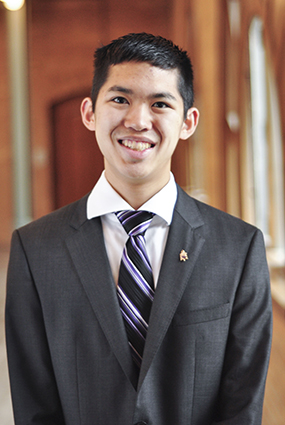
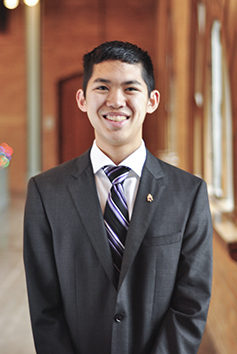
trying new code for react-router workaround on 404 github errors, changes to brother information on profiles, improvements to usability

diff --git a/src/components/Brothers/brotherhood_constants.js b/src/components/Brothers/brotherhood_constants.js
@@ -181,7 +181,7 @@ const brotherInfo = {
     position: 'Director of Scholarship',
     year: 'Sophomore',
     hometown: 'Los Angeles, CA',
-    class: 'Kappa',
+    class: 'Iota',
     major: 'Intended Business & Economics',
     minor: '',
     career_interests: 'Investment Banking & Consulting',
@@ -374,7 +374,7 @@ const brotherInfo = {
     career_interests: 'Investment Banking & Consulting',
     previous_positions: '',
     bio:
-      "Justin's biggest lesson from PSE is that communication is the key to holding a group together. His role model is his father. Justin enjoys traveling around the world, meeting new people and hearing their stories, and playing sports. He is one of Berkeley's three MicMan and an active member in Cal Rotaract.",
+      "Justin's biggest lesson from PSE is that communication is the key to holding a group together. In PSE, he's found a family that will motivate him and push him to do his best. Justin's role model is his father. He enjoys traveling around the world, meeting new people and hearing their stories, and playing sports such as soccer and volleyball. He is one of Berkeley's three MicMen and an active member in Cal Rotaract.",
     linkedin: 'https://linkedin.com/in/justintan14'
   },
 
@@ -523,10 +523,10 @@ const brotherInfo = {
     class: 'Iota',
     major: 'Business Administration',
     minor: '',
-    career_interests: 'Digital Marketing & Brand Marketing',
+    career_interests: 'Content & Digital Marketing',
     previous_positions: '',
     bio:
-      'PSE has allowed Melody to improve on her leadership, teamwork, and communication skills, and helped her get over her fear of case competitions. Her role models are her parents and God. Melody is also involved in Livingwater Artist Collective, Business Careers in Entertainment, EthiCAL Apparel, and the dance team AFX. She enjoys acting, cooking, and playwriting in her free time.',
+      'PSE has allowed Melody to improve on her leadership, teamwork, and communication skills, and helped her get over her fear of case competitions. She is involved in the Livingwater Passion Fellowship and Business Careers in Entertainment Club. Melody enjoys acting, cooking, dancing, and playwriting in her free time.',
     linkedin: 'https://linkedin.com/in/wanmelody'
   },
 
@@ -757,9 +757,9 @@ const brotherInfo = {
     year: 'Junior',
     hometown: 'Fremont, CA',
     class: 'Iota',
-    major: 'Economics & Media Studies',
-    minor: 'Technology & Entrepreneurship Certificate',
-    career_interests: 'Digital Marketing',
+    major: 'Media Studies',
+    minor: 'Political Economy',
+    career_interests: 'Marketing, Business Development, & Brand Strategy',
     previous_positions: 'Director of External Recruitment',
     bio:
       'PSE has taught Yixuan the importance of having an excellent personal brand. It has shaped her into a more confident, knowledgeable, and professional individual through coffee chats, case competitions, and various Chapter events. PSE has introduced her to many motivated and successful individuals that she feel beyond blessed to be a part of the diverse community at Cal. Her role model is her grandmother. Yixuan was awarded 2nd place in the 2016 PwC case competition, and is also an active member of Berkeley Women in Business. She loves blogging, watercoloring, and going on road trips.',

diff --git a/public/404.html b/public/404.html
@@ -1,0 +1,38 @@
+<!DOCTYPE html>
+<html>
+  <head>
+    <meta charset="utf-8">
+    <title>Single Page Apps for GitHub Pages</title>
+    <script type="text/javascript">
+      // Single Page Apps for GitHub Pages
+      // https://github.com/rafrex/spa-github-pages
+      // Copyright (c) 2016 Rafael Pedicini, licensed under the MIT License
+      // ----------------------------------------------------------------------
+      // This script takes the current url and converts the path and query
+      // string into just a query string, and then redirects the browser
+      // to the new url with only a query string and hash fragment,
+      // e.g. http://www.foo.tld/one/two?a=b&c=d#qwe, becomes
+      // http://www.foo.tld/?p=/one/two&q=a=b~and~c=d#qwe
+      // Note: this 404.html file must be at least 512 bytes for it to work
+      // with Internet Explorer (it is currently > 512 bytes)
+      // If you're creating a Project Pages site and NOT using a custom domain,
+      // then set segmentCount to 1 (enterprise users may need to set it to > 1).
+      // This way the code will only replace the route part of the path, and not
+      // the real directory in which the app resides, for example:
+      // https://username.github.io/repo-name/one/two?a=b&c=d#qwe becomes
+      // https://username.github.io/repo-name/?p=/one/two&q=a=b~and~c=d#qwe
+      // Otherwise, leave segmentCount as 0.
+      var segmentCount = 0;
+      var l = window.location;
+      l.replace(
+        l.protocol + '//' + l.hostname + (l.port ? ':' + l.port : '') +
+        l.pathname.split('/').slice(0, 1 + segmentCount).join('/') + '/?p=/' +
+        l.pathname.slice(1).split('/').slice(segmentCount).join('/').replace(/&/g, '~and~') +
+        (l.search ? '&q=' + l.search.slice(1).replace(/&/g, '~and~') : '') +
+        l.hash
+      );
+    </script>
+  </head>
+  <body>
+  </body>
+</html>

diff --git a/public/index.html b/public/index.html
@@ -22,6 +22,37 @@
       You need to enable JavaScript to run this app.
     </noscript>
 
+    <!-- Start Single Page Apps for GitHub Pages -->
+    <script type="text/javascript">
+      // Single Page Apps for GitHub Pages
+      // https://github.com/rafrex/spa-github-pages
+      // Copyright (c) 2016 Rafael Pedicini, licensed under the MIT License
+      // ----------------------------------------------------------------------
+      // This script checks to see if a redirect is present in the query string
+      // and converts it back into the correct url and adds it to the
+      // browser's history using window.history.replaceState(...),
+      // which won't cause the browser to attempt to load the new url.
+      // When the single page app is loaded further down in this file,
+      // the correct url will be waiting in the browser's history for
+      // the single page app to route accordingly.
+      (function(l) {
+        if (l.search) {
+          var q = {};
+          l.search.slice(1).split('&').forEach(function(v) {
+            var a = v.split('=');
+            q[a[0]] = a.slice(1).join('=').replace(/~and~/g, '&');
+          });
+          if (q.p !== undefined) {
+            window.history.replaceState(null, null,
+              l.pathname.slice(0, -1) + (q.p || '') +
+              (q.q ? ('?' + q.q) : '') +
+              l.hash
+            );
+          }
+        }
+      }(window.location))
+    </script>
+    
     <!-- Font Awesome -->
     <script src="https://use.fontawesome.com/db12232d8c.js"></script>
 

diff --git a/src/components/reusable_components/AccordionItem.jsx b/src/components/reusable_components/AccordionItem.jsx
@@ -8,22 +8,29 @@ import { StyleSheet, css } from 'aphrodite';
 import { animations } from '../../stylesheets/Animations.js';
 
 export default class AccordionItem extends React.Component {
+  constructor(props) {
+    super(props);
+    this.state = {
+      isOpen: false
+    };
+  }
+
   render() {
-    let { isActive, setActiveIndex, index } = this.props;
+    let { isOpen } = this.state;
 
     return (
       <div className={css(styles.accordionItem)}>
         <div
           className={css(
             styles.headerContainer,
-            isActive ? styles.openHC : styles.closedHC
+            isOpen ? styles.openHC : styles.closedHC
           )}
-          onClick={() => setActiveIndex(index)}
+          onClick={() => this.setState({ isOpen: !isOpen })}
         >
           <h1 className={css(styles.header)}>
             {this.props.question}
           </h1>
-          {isActive
+          {isOpen
             ? <i
                 className={css(styles.chevron) + ' fa fa-chevron-up'}
                 aria-hidden="true"
@@ -36,7 +43,7 @@ export default class AccordionItem extends React.Component {
         <div
           className={css(
             styles.bodyContainer,
-            isActive ? animations.fadeInFast : styles.hidden
+            isOpen ? animations.fadeInFast : styles.hidden
           )}
         >
           <p className={css(styles.answer)}>

diff --git a/src/components/Recruitment/WhyPSE.jsx b/src/components/Recruitment/WhyPSE.jsx
@@ -124,7 +124,7 @@ export default class WhyPSE extends React.Component {
                 <img
                   src={'/images/rahul.jpg'}
                   className={css(styles.image)}
-                  alt=""
+                  alt="Rahul Rangnekar"
                 />
               </div>
             </div>
@@ -148,7 +148,10 @@ const styles = StyleSheet.create({
   },
 
   section: {
-    padding: '40px 30px'
+    padding: '40px 15px',
+    '@media (min-width: 768px)': {
+      padding: '40px 30px'
+    }
   },
 
   darkBackground: {
@@ -167,7 +170,8 @@ const styles = StyleSheet.create({
     margin: 'auto',
     textAlign: 'left',
     '@media (max-width: 1200px)': {
-      flexDirection: 'column'
+      flexDirection: 'column',
+      textAlign: 'center'
     }
   },
 
@@ -175,7 +179,10 @@ const styles = StyleSheet.create({
     fontFamily: 'Open Sans, sans-serif',
     fontSize: '1.25em',
     fontWeight: '500',
-    padding: '0 10px'
+    padding: '0 5px',
+    '@media(min-width: 768px)': {
+      padding: '0 20px'
+    }
   },
 
   darkDescription: {

diff --git a/src/components/Recruitment/FAQs.jsx b/src/components/Recruitment/FAQs.jsx
@@ -10,21 +10,6 @@ import { faq_constants } from './faq_constants.js';
 import AccordionItem from '../reusable_components/AccordionItem.jsx';
 
 export default class FAQs extends React.Component {
-  constructor(props) {
-    super(props);
-    this.state = {
-      activeIndex: -1
-    };
-  }
-
-  setActiveIndex = newIndex => {
-    if (this.state.activeIndex === newIndex) {
-      this.setState({ activeIndex: -1 });
-    } else {
-      this.setState({ activeIndex: newIndex });
-    }
-  };
-
   render() {
     document.title = 'FAQs - Pi Sigma Epsilon | Zeta Chi Chapter';
 
@@ -34,10 +19,8 @@ export default class FAQs extends React.Component {
           <AccordionItem
             key={index}
             index={index}
-            isActive={this.state.activeIndex === index}
             question={item.question}
             answer={item.answer}
-            setActiveIndex={this.setActiveIndex}
           />
         );
       } else {

diff --git a/src/components/Recruitment/faq_constants.js b/src/components/Recruitment/faq_constants.js
@@ -20,7 +20,7 @@ export const faq_constants = [
   {
     question: 'Is there a GPA minimum?',
     answer:
-      'We have a soft GPA minimum of 3.0, but exceptions can and have been made. If your GPA is below a 3.0 and we offer you a prospective member spot, we expect you to improve upon your grades.'
+      'We have a GPA minimum of 3.0.. Applicants with a sub-3.0 GPA are still welcome to apply, but are expected to have an outstanding resume or potential.'
   },
   {
     question: 'Is there an age/year ceiling?',

diff --git a/src/components/Navbar/HamburgerMenu.jsx b/src/components/Navbar/HamburgerMenu.jsx
@@ -151,7 +151,7 @@ const menuStyles = {
 
   bmMenu: {
     background: '#303030',
-    padding: '2.5em 2em 0',
+    padding: '1.75em 2em 0',
     fontSize: '1em',
     color: '#FFF',
     width: `${MENU_WIDTH}px`,
@@ -159,7 +159,7 @@ const menuStyles = {
   },
 
   bmItemList: {
-    padding: '0.8em'
+    padding: '0.2em 0.8em'
   },
 
   bmOverlay: {

diff --git a/src/components/Brothers/Brother.jsx b/src/components/Brothers/Brother.jsx
@@ -179,8 +179,14 @@ const styles = StyleSheet.create({
 
   image: {
     border: '3px solid #895FAD',
-    height: '600px',
-    width: '402px'
+    '@media (min-width: 325px)': {
+      width: '325px',
+      height: '485px'
+    },
+    '@media (min-width: 425px)': {
+      width: '402px',
+      height: '600px'
+    }
   },
 
   broBio: {

diff --git a/src/components/About/About.jsx b/src/components/About/About.jsx
@@ -164,7 +164,12 @@ const styles = StyleSheet.create({
     fontFamily: 'Open Sans, sans-serif',
     fontSize: '1.25em',
     fontWeight: '500',
-    padding: '0 20px'
+    padding: '0 5px',
+    textAlign: 'center',
+    '@media (min-width: 768px)': {
+      padding: '0 20px',
+      textAlign: 'left'
+    }
   },
 
   imageContainer: {
